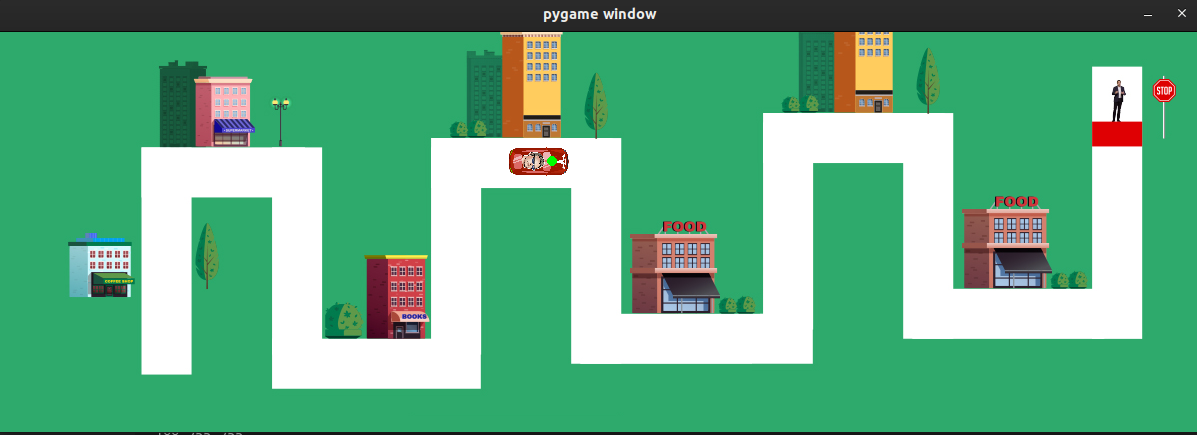
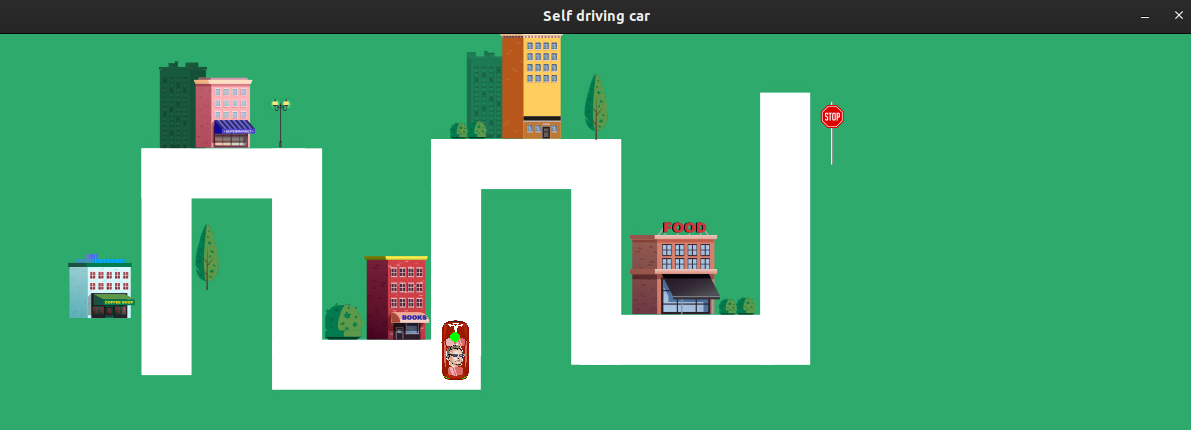
final commit for basic model

diff --git a/main.py b/main.py
@@ -1,7 +1,7 @@
 import pygame
 pygame.init()
 window = pygame.display.set_mode((1200, 400))
-track = pygame.image.load('track6.png')
+track = pygame.image.load('track5.png')
 car = pygame.image.load('tesla.png')
 car = pygame.transform.scale(car, (30, 60))
 car_x = 155
@@ -57,4 +57,5 @@ while drive:
     window.blit(track, (0, 0))
     window.blit(car, (car_x, car_y))
     pygame.draw.circle(window, (0, 255, 0), (cam_x, cam_y), 5, 5)
+    pygame.display.set_caption('Self driving car')
     pygame.display.update()
